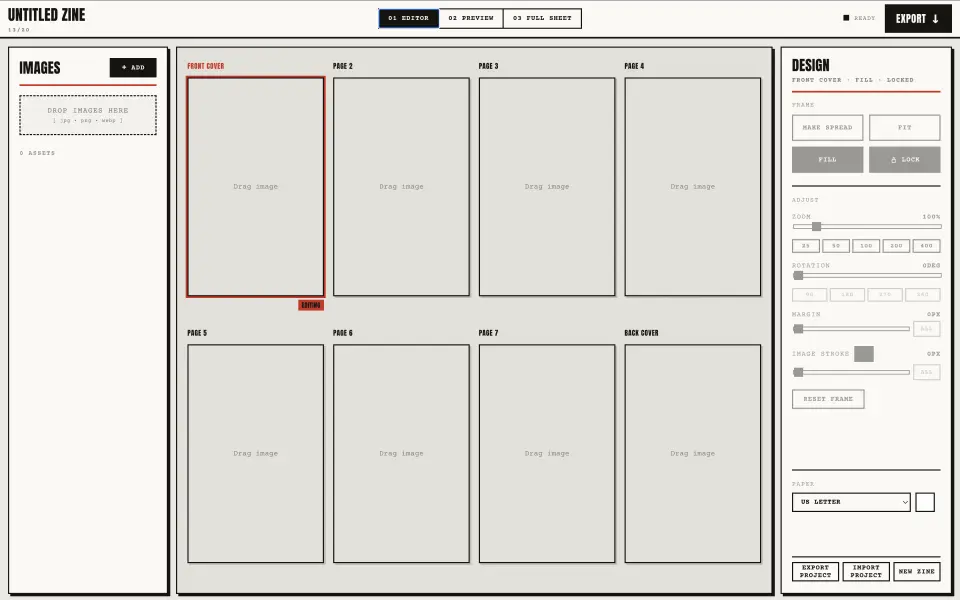
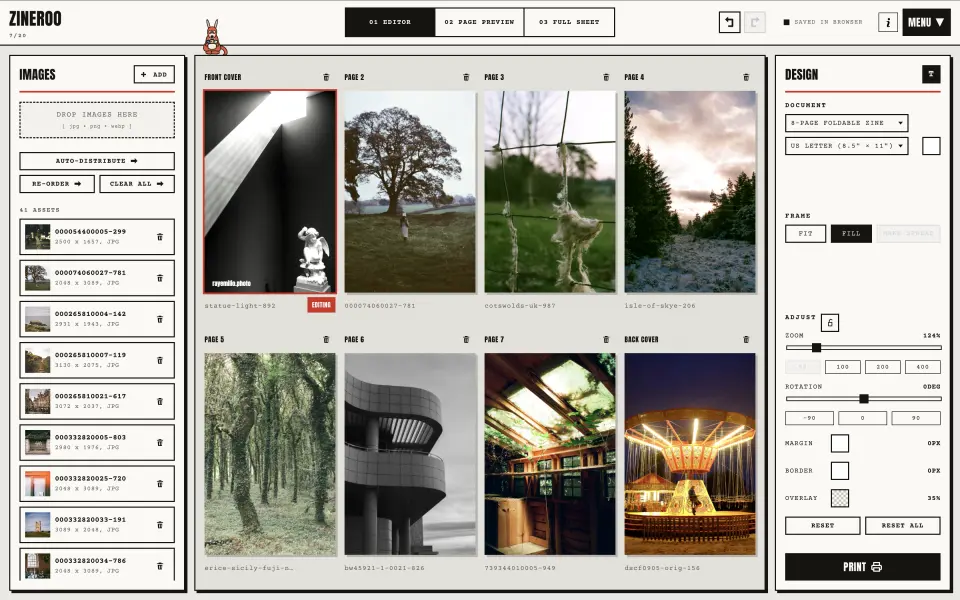
Refresh portfolio for Zineroo

diff --git a/zineroo/index.html b/zineroo/index.html
@@ -5,9 +5,9 @@
         <meta name="viewport" content="width=device-width, initial-scale=1.0" />
         <meta
             name="description"
-            content="Zine Maker is a local-first browser tool for assembling printable foldable zines and trifold brochures from images, with text overlays, page and spread reordering, imposition preview, PDF, PNG, ZIP, and project export."
+            content="Zineroo is a local-first browser print shop for assembling printable zines, bifold booklets, and trifold brochures with layered photos, text overlays, undo/redo, imposition preview, and standard or print-shop PDF export."
         />
-        <title>Zine Maker — Objects on Purpose</title>
+        <title>Zineroo — Objects on Purpose</title>
         <link rel="stylesheet" href="../_resources/css/stylesheet-reset.css" />
         <link rel="stylesheet" href="../_resources/css/stylesheet-fonts.css" />
         <link rel="stylesheet" href="../_resources/css/style.css" />
@@ -19,11 +19,18 @@
 
         <main>
             <p class="doc-label">Technical Documentation</p>
-            <h1>Zine Maker</h1>
+            <div class="doc-title-row">
+                <h1>Zineroo</h1>
+                <img
+                    class="doc-title-logo"
+                    src="../_resources/images/svg/zineroo-favicon-printshop.svg"
+                    alt="Zineroo kangaroo logo"
+                />
+            </div>
             <p class="subtitle">
-                A local-first browser based React tool for making printable foldable zines and trifold brochures from
-                images, with auto-fill, text overlays, page and spread reordering, booklet preview, imposition layout,
-                and export-ready PDF, PNG, ZIP, and project output
+                A local-first browser based React tool for making printable foldable zines, bifold booklets, and
+                trifold brochures from images, with auto-fill, layered photo placement, curved text overlays, undo/redo,
+                booklet preview, imposition layout, and export-ready PDF, PNG, ZIP, and project output
             </p>
 
             <p class="meta tags">
@@ -36,7 +43,7 @@
             </p>
 
             <div class="project-links">
-                <a href="https://zinemaker.objectsonpurpose.com/" target="_blank">Open the zine maker →</a>
+                <a href="https://zineroo.com/" target="_blank">Open Zineroo →</a>
             </div>
 
             <hr />
@@ -44,11 +51,12 @@
             <h2>The Idea</h2>
 
             <p>
-                Zine Maker is a focused publishing tool for turning a small image set into a printable folded object.
-                It keeps the workflow in the browser: drop images in, choose a folded zine or trifold brochure format,
-                auto-fill the editor, add text, reorder pages or spreads, tune the frame, preview the booklet or sheet,
-                and export the files. The project is deliberately local-first. Images are kept in the browser,
-                autosaved to IndexedDB, and exported by the user as files rather than pushed through an account system.
+                Zineroo is a focused publishing tool for turning a small image set into a printable folded object.
+                It keeps the workflow in the browser: drop images in, choose a folded zine, bifold booklet, or trifold
+                brochure format, auto-fill the editor, add photo and text layers, reorder pages or spreads, tune the
+                frame, preview the booklet or sheet, and export the files. The project is deliberately local-first.
+                Images are kept in the browser, autosaved to IndexedDB, and exported by the user as files rather than
+                pushed through an account system.
             </p>
 
             <p>
@@ -69,17 +77,20 @@
             <h3>Folded formats</h3>
             <ul class="feature-list">
                 <li>Eight-page foldable zine format with front cover, six interior pages, and back cover</li>
+                <li>Bifold booklet format with page counts from 4 to 100 pages in four-page increments</li>
                 <li>Trifold brochure format with outside and inside sheet sides</li>
                 <li>Format switching updates page labels, editor grid, preview views, valid spreads, and export sides</li>
                 <li>Drag-and-drop page assignment from the image tray</li>
                 <li>Auto-Distribute fills the editor from the sorted asset tray</li>
                 <li>Re-Order mode moves or swaps single pages, two-page spreads, and valid trifold spread groups</li>
+                <li>Undo and redo controls cover layout edits, placement changes, text edits, imports, and reordering</li>
             </ul>
 
             <h3>Image placement</h3>
             <ul class="feature-list">
                 <li>Fill and fit modes for fast page framing</li>
                 <li>Freeform mode for manual pan, zoom, and rotation</li>
+                <li>Layered photo placement supports a background image plus additional foreground photo layers</li>
                 <li>Rotation-aware freeform crop constraints and snap guides keep images inside the printable frame</li>
                 <li>Per-page margin and image stroke controls with apply-to-all actions</li>
                 <li>Image overlay colors can tint the whole page or only the placed photo</li>
@@ -90,7 +101,7 @@
             <ul class="feature-list">
                 <li>Non-destructive text overlays stored with each page or spread</li>
                 <li>Fullscreen text editor with direct dragging over the image</li>
-                <li>Font, color, highlight, size, tracking, line-height, padding, alignment, and rotation controls</li>
+                <li>Font, color, highlight, size, tracking, line-height, padding, alignment, rotation, and curve controls</li>
                 <li>Self-hosted display, serif, mono, script, and typewriter font options</li>
                 <li>Text overlays render through the same canvas path as previews, PDF, and PNG output</li>
             </ul>
@@ -100,9 +111,12 @@
                 <li>Editor view for the active format's complete page set</li>
                 <li>Booklet and brochure preview modes with format-specific navigation</li>
                 <li>Full-sheet imposition preview using the print order required for folding or double-sided trifold printing</li>
-                <li>PDF export via jsPDF, single-sheet PNG export, and zipped trifold PNG side export</li>
+                <li>Standard 144 PPI PDF export via jsPDF for sharing and simple printing</li>
+                <li>Print shop PDF export at 300 PPI with optional bleed, crop marks, and local CMYK conversion through uploaded ICC or ICM profiles</li>
+                <li>Single-sheet PNG export and zipped multi-sheet PDF or PNG export for booklet and brochure output</li>
                 <li>Optional ZIP export bundles the rendered PDF or PNG files with a portable project JSON archive</li>
-                <li>Download-complete dialog shows zine folding instructions or trifold print settings</li>
+                <li>Print guidance explains direct printing, PDF printing, and print-shop export paths before download</li>
+                <li>Download-complete dialog shows zine folding instructions, trifold settings, or print-shop PDF notes</li>
                 <li>Lightweight preview images keep editing responsive while exports render from original uploads</li>
             </ul>
 
@@ -113,6 +127,7 @@
                 <li>Stores original image blobs locally and regenerates runtime preview URLs when restored</li>
                 <li>New Zine confirms before clearing local autosave and returning to a blank project</li>
                 <li>Object URLs and image caches are cleaned up on reset, removal, and import</li>
+                <li>Desktop beta gate protects the current editor from unsupported mobile and short viewport layouts</li>
             </ul>
 
             <hr class="thin" />
@@ -138,7 +153,7 @@
                 </tr>
                 <tr>
                     <td>Export</td>
-                    <td>jsPDF for PDF output, Canvas blob export for PNG sheets, JSON archive/import, and a small in-app ZIP writer for bundled exports</td>
+                    <td>jsPDF for standard PDF output, Canvas blob export for PNG sheets, local CMYK PDF generation with ICC output intents, JSON archive/import, and a small in-app ZIP writer for bundled exports</td>
                 </tr>
                 <tr>
                     <td>Image pipeline</td>
@@ -154,11 +169,11 @@
                 </tr>
                 <tr>
                     <td>Paper presets</td>
-                    <td>US Letter, A4, and A3</td>
+                    <td>US Letter, US Legal, US Tabloid, A5, A4, and A3</td>
                 </tr>
                 <tr>
                     <td>Formats</td>
-                    <td>Eight-page foldable zine and two-sided trifold brochure layouts</td>
+                    <td>Eight-page foldable zine, multi-page bifold booklet, and two-sided trifold brochure layouts</td>
                 </tr>
                 <tr>
                     <td>Typography</td>
@@ -182,8 +197,10 @@ src/
   App.tsx        application state, format switching, editor actions, export orchestration
   canvas/        shared preview, booklet, imposition, and export rendering
   components/    asset tray, page grid, inspector, previews, text editor, export modal
+  dom/           drag targets and text-overlay geometry shared by DOM and canvas rendering
   domain/        project model, format definitions, spread and crop rules
-  services/      assets, IndexedDB storage, project JSON, ZIP, and download helpers
+  hooks/         viewport gating and confirmation helpers
+  services/      assets, IndexedDB storage, project JSON, ZIP, PDF, ICC, and download helpers
   styles/        app shell, tray, page grid, inspector, text tools, preview, export UI</pre
                 >
             </div>
@@ -194,7 +211,8 @@ src/
                 <pre data-code-language="typescript">
 type ZineProject = {
   version?: number;
-  format?: 'zine' | 'trifold';
+  format?: 'zine' | 'trifold' | 'bifold';
+  pageCount?: number;
   title: string;
   assets: ZineAsset[];
   pages: PageSlot[];
@@ -214,7 +232,23 @@ type TextOverlay = {
   x: number;
   y: number;
   rotation: number;
+  curve: number;
   align: 'left' | 'center' | 'right';
+};
+
+type PhotoLayer = {
+  id: string;
+  assetId?: string;
+  fit: 'cover' | 'contain' | 'spread';
+  crop: { x: number; y: number; zoom: number; rotation: number };
+  freeformCrop?: { x: number; y: number; zoom: number; rotation: number };
+  freeform: boolean;
+  margin: number;
+  imageBorder?: number;
+  imageStroke?: string;
+  overlayColor?: string;
+  overlayOpacity: number;
+  overlayPhotoOnly?: boolean;
 };
 
 type ZineAsset = {
@@ -242,6 +276,7 @@ type PageSlot = {
   overlayColor?: string;
   overlayOpacity: number;
   overlayPhotoOnly?: boolean;
+  photoLayers?: PhotoLayer[];
   textOverlays?: TextOverlay[];
   spreadId?: string;
   spreadSide?: 'left' | 'center' | 'right';
@@ -254,10 +289,19 @@ type PageSlot = {
 
             <p>
                 The data model is intentionally small. A project is a title, a format, a local asset library, page
-                slots, and design settings. Page slots own their image placement, overlay color, text layers, and
-                spread metadata. Runtime object URLs are stripped before autosave and project export, then rebuilt when
-                the project is restored. Uploaded originals stay available for export while generated preview blobs keep
-                the editor responsive.
+                slots, and design settings. Page slots own their background image placement, additional photo layers,
+                overlay color, text layers, and spread metadata. Runtime object URLs are stripped before autosave and
+                project export, then rebuilt when the project is restored. Uploaded originals stay available for export
+                while generated preview blobs keep the editor responsive.
+            </p>
+
+            <h3>Layer model</h3>
+
+            <p>
+                The original single-photo page slot now behaves as the background layer, while foreground photo layers
+                use the same crop, fit, freeform, stroke, margin, and overlay controls. That lets the editor add richer
+                collage-style pages without forking the rendering path. Canvas preview, full-sheet export, print PDF
+                output, and project save/load all consume the normalized layer model.
             </p>
 
             <h3>Preview asset pipeline</h3>
@@ -292,7 +336,8 @@ const TRIFOLD_INSIDE_PAGES = [3, 4, 5];</pre
             <p>
                 The full-sheet preview and PDF export use the same format definitions, so the visual preview matches
                 the file that is saved. Foldable zines render one imposed sheet with the top row rotated for folding.
-                Trifolds render separate outside and inside sides for double-sided printing.
+                Trifolds render separate outside and inside sides for double-sided printing. Bifold booklets render the
+                required imposed sheet sequence so longer booklets can be exported as a set of printable PDF sheets.
             </p>
 
             <h3>Reorder model</h3>
@@ -312,6 +357,15 @@ type ReorderUnit = {
                 Reordering treats a spread as one unit, whether it spans two pages or a full three-panel trifold side.
                 Boundary drops move content before or after another slot, while direct drops swap compatible blocks.
                 Spread metadata is normalized after each move so paired and grouped pages stay together.
+            </p>
+
+            <h3>History model</h3>
+
+            <p>
+                The editor keeps an undo/redo stack around complete project snapshots, with grouping for continuous
+                text and control edits so sliders and typing do not flood history. The text editor has its own temporary
+                draft history while open, then commits the finished overlay state back into the project history when the
+                modal closes.
             </p>
 
             <h3>Export flow</h3>
@@ -343,9 +397,11 @@ async function renderPdfBlob() {
 
             <p>
                 Export is canvas-first. The app renders the printable side or sides, then routes that same rendering to
-                PDF, PNG, or ZIP. Project export is separate but can be bundled with the rendered artifact: it serializes
-                the project state and embeds original image blobs as data URLs so the work can be moved between browsers
-                without carrying runtime preview blobs or object URLs.
+                PDF, PNG, or ZIP. Standard PDFs prioritize quick sharing and home printing. Print shop PDFs render at
+                300 PPI, can add bleed and crop marks, and can flatten through a local CMYK conversion path when the
+                user supplies a printer profile. Project export is separate but can be bundled with the rendered
+                artifact: it serializes the project state and embeds original image blobs as data URLs so the work can
+                be moved between browsers without carrying runtime preview blobs or object URLs.
             </p>
 
             <hr class="thin" />
@@ -361,7 +417,9 @@ async function renderPdfBlob() {
 
             <p>
                 The most important view is the full sheet. Individual pages matter, but the final object is the folded
-                imposition. Keeping that view one click away makes mistakes visible before the user prints.
+                imposition. Keeping that view one click away makes mistakes visible before the user prints. A beta
+                desktop gate is also part of that design decision: until the mobile editor is ready, the app explicitly
+                asks people on small screens to continue on a computer instead of offering a cramped, unreliable canvas.
             </p>
         </main>
 
@@ -371,7 +429,7 @@ async function renderPdfBlob() {
                     ←
                     <a href="../">Return to portfolio</a>
                 </span>
-                <a href="https://zinemaker.objectsonpurpose.com/" target="_blank">Open the zine maker →</a>
+                <a href="https://zineroo.com/" target="_blank">Open Zineroo →</a>
             </p>
         </footer>
     </body>

diff --git a/index.html b/index.html
@@ -524,17 +524,18 @@
                             />
                         </div>
                         <div class="proj-body">
-                            <h3 class="proj-title"><a href="zine-maker/">Zine Maker</a></h3>
+                            <h3 class="proj-title"><a href="zineroo/">Zineroo</a></h3>
                             <p class="proj-tag">Indie print shop in your browser.</p>
                             <p class="proj-desc">
-                                A browser-based React tool for building and exporting printable eight-page zines.
+                                A browser-based React tool for printable zines, bifold booklets, and trifold brochures
+                                with layered photos, curved text, undo/redo, and print-shop PDF export.
                             </p>
                             <div class="tags">
                                 <span class="tag">TypeScript</span>
                                 <span class="tag">React</span>
                                 <span class="tag">Vite</span>
                                 <span class="tag">Canvas</span>
-                                <span class="tag">PDF</span>
+                                <span class="tag">jsPDF</span>
                             </div>
                         </div>
                         <div class="proj-img">
@@ -550,9 +551,9 @@
                                 />
                                 <img
                                     src="_resources/images/png/zine-maker/zine-maker.png"
-                                    alt="Zine Maker editor with image tray, imposition sheet preview, and design controls"
-                                    width="1920"
-                                    height="1080"
+                                    alt="Zineroo editor with image tray, imposition sheet preview, and design controls"
+                                    width="3360"
+                                    height="2100"
                                     loading="lazy"
                                     decoding="async"
                                 />

diff --git a/_resources/css/style.css b/_resources/css/style.css
@@ -703,6 +703,24 @@ body.doc-page h1 {
     color: var(--ink);
 }
 
+.doc-title-row {
+    position: relative;
+    margin: 0 0 var(--s-4);
+}
+
+.doc-title-row h1 {
+    margin-bottom: 0;
+}
+
+.doc-title-logo {
+    display: block;
+    position: absolute;
+    right: 0;
+    bottom: 0;
+    width: auto;
+    height: clamp(44px, 6vw, 58px);
+}
+
 body.doc-page h2 {
     font-family: var(--serif);
     font-weight: 400;
